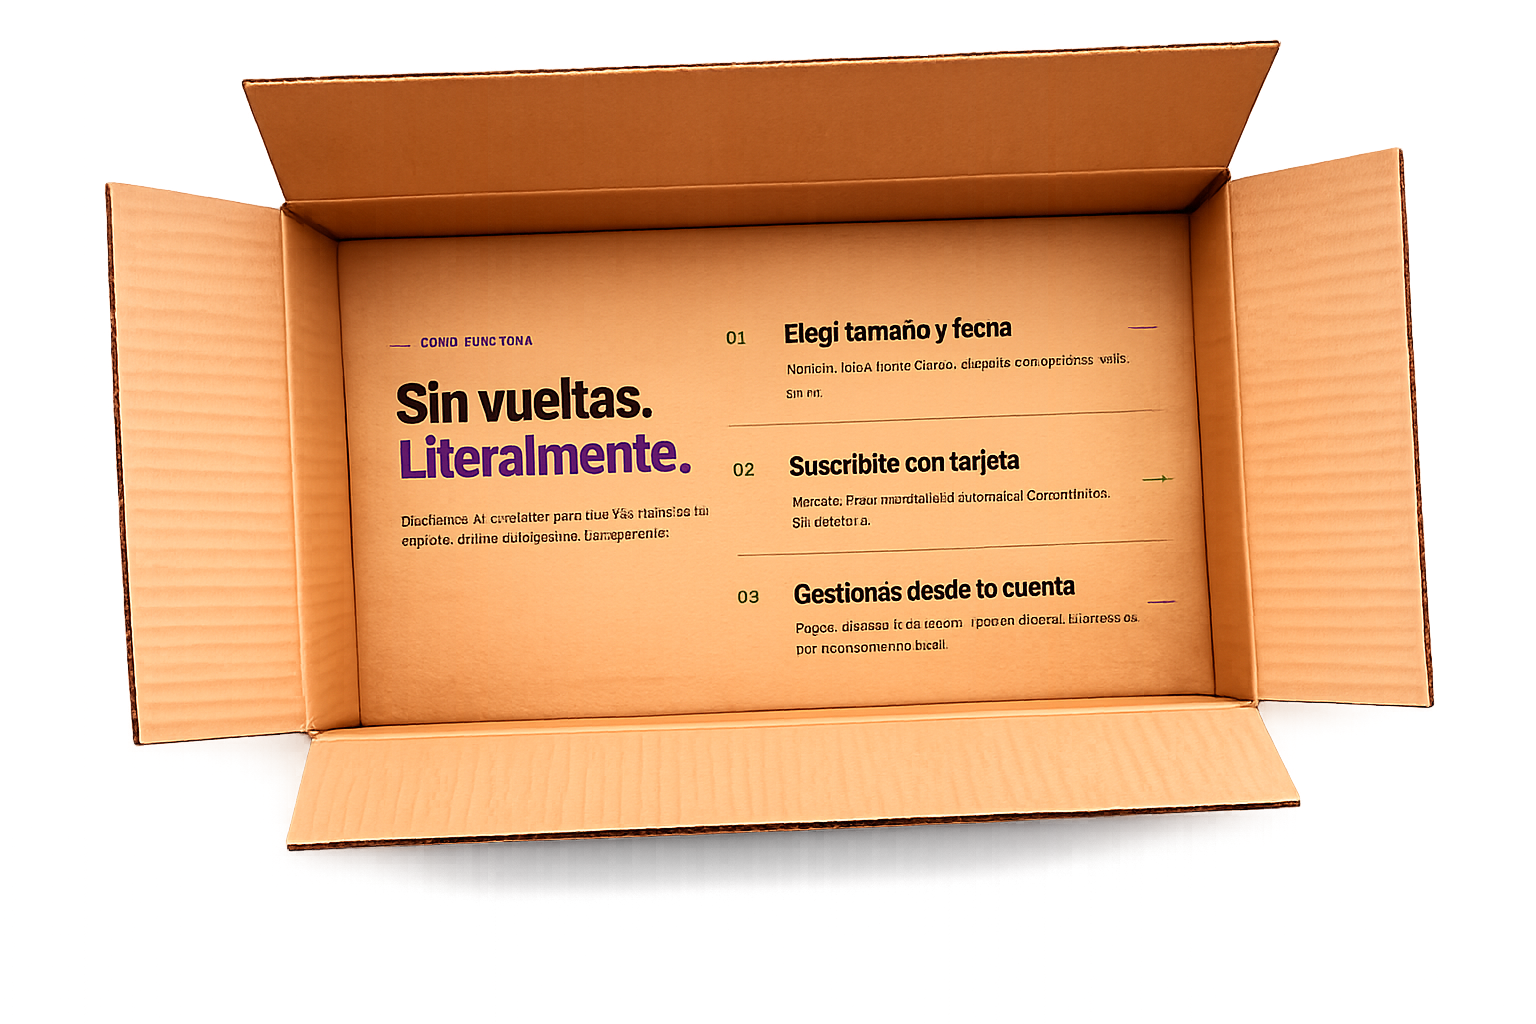
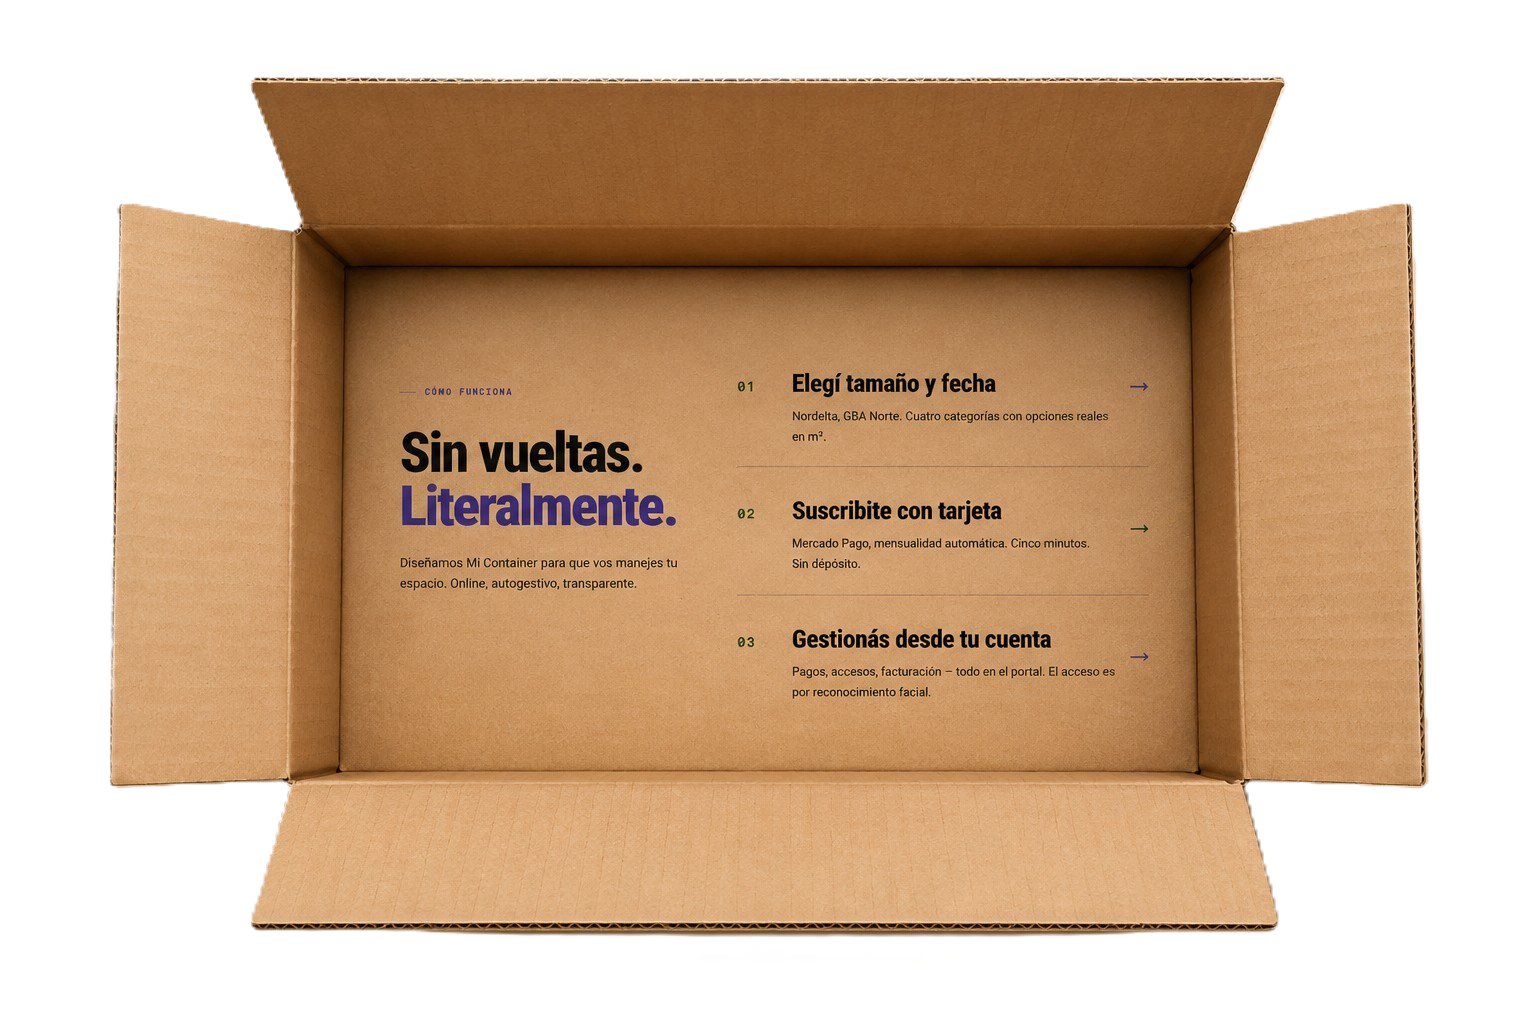
fix: true transparent PNG via jimp pixel processing
Use jimp 0.22 to convert JPG to PNG: pixels with brightness>222
AND saturation<12% become transparent with smooth fade. No JS/CSS
filter needed at runtime — transparency baked into the PNG.

diff --git a/index.html b/index.html
@@ -71,19 +71,6 @@
   <div class="mc-grain" aria-hidden="true"></div>
   <canvas id="mc-aurora-canvas" aria-hidden="true" style="position:fixed;inset:0;width:100%;height:100%;z-index:0;pointer-events:none;filter:blur(22px);"></canvas>
   <div id="root"></div>
-  <!-- SVG filter: A = 3 - R - G - B → blanco puro = transparente, cartón = opaco -->
-  <svg width="0" height="0" style="position:absolute" aria-hidden="true">
-    <defs>
-      <filter id="rm-white" color-interpolation-filters="sRGB">
-        <feColorMatrix type="matrix"
-          values="1 0 0 0 0
-                  0 1 0 0 0
-                  0 0 1 0 0
-                 -1 -1 -1 0 3"/>
-      </filter>
-    </defs>
-  </svg>
-
   <script>
   (function() {
     if (window.matchMedia('(prefers-reduced-motion: reduce)').matches) return;

diff --git a/home.jsx b/home.jsx
@@ -701,7 +701,7 @@ function How() {
     <section className="mc-how" id="how">
       <img
         id="how-box-img"
-        src="assets/box-render.jpg"
+        src="assets/box-render.png"
         alt="Cómo funciona Mi Container"
         className="mc-how-box-img"
       />

diff --git a/styles.css b/styles.css
@@ -3334,6 +3334,4 @@ body   { background: #ffffff; }
 .mc-how-box-img {
   width: 100%;
   display: block;
-  /* SVG filter elimina fondo blanco: alpha = 3 - R - G - B */
-  filter: url(#rm-white);
 }
